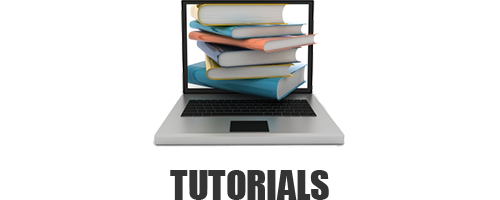
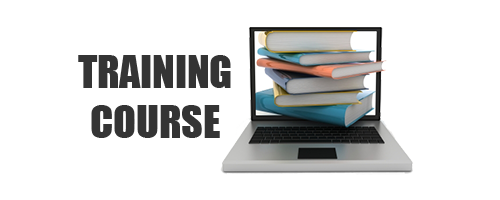
Add training course video, change documentation buttons

diff --git a/_includes/about.html b/_includes/about.html
@@ -12,11 +12,11 @@
 			<div class="download-docs">
 				<div align = center>
 					<a href='http://wiki.synfig.org/Category:Manual'><img src="img/read-docs.png" width="500" alt="" ></a>
-					<a href='http://wiki.synfig.org/Category:Tutorials'><img src="img/courses.png" width="500" alt="" ></a>
+					<a href='https://gumroad.com/a/855913587'><img src="img/courses.png" width="500" alt="" ></a>
 				</div>
 			<div class = "download-course">
 				<div align = center>
-					<a href='https://gumroad.com/a/855913587'><img src="img/get-course.png" width="728" alt="" ></a>
+					<iframe width="560" height="315" src="https://www.youtube.com/embed/N8SF_-gJ0_w" frameborder="0" allowfullscreen></iframe>
 				</div>
 			</div>
 			</div> 

diff --git a/README.md b/README.md
@@ -1,7 +1,7 @@
 Agency Jekyll theme
 ====================
 
-Agency theme based on [Agency bootstrap theme ](https://startbootstrap.com/template-overviews/agency/)
+Agency theme based on [Agency bootstrap theme ](http://startbootstrap.com/templates/agency/)
 
 # How to use
 
